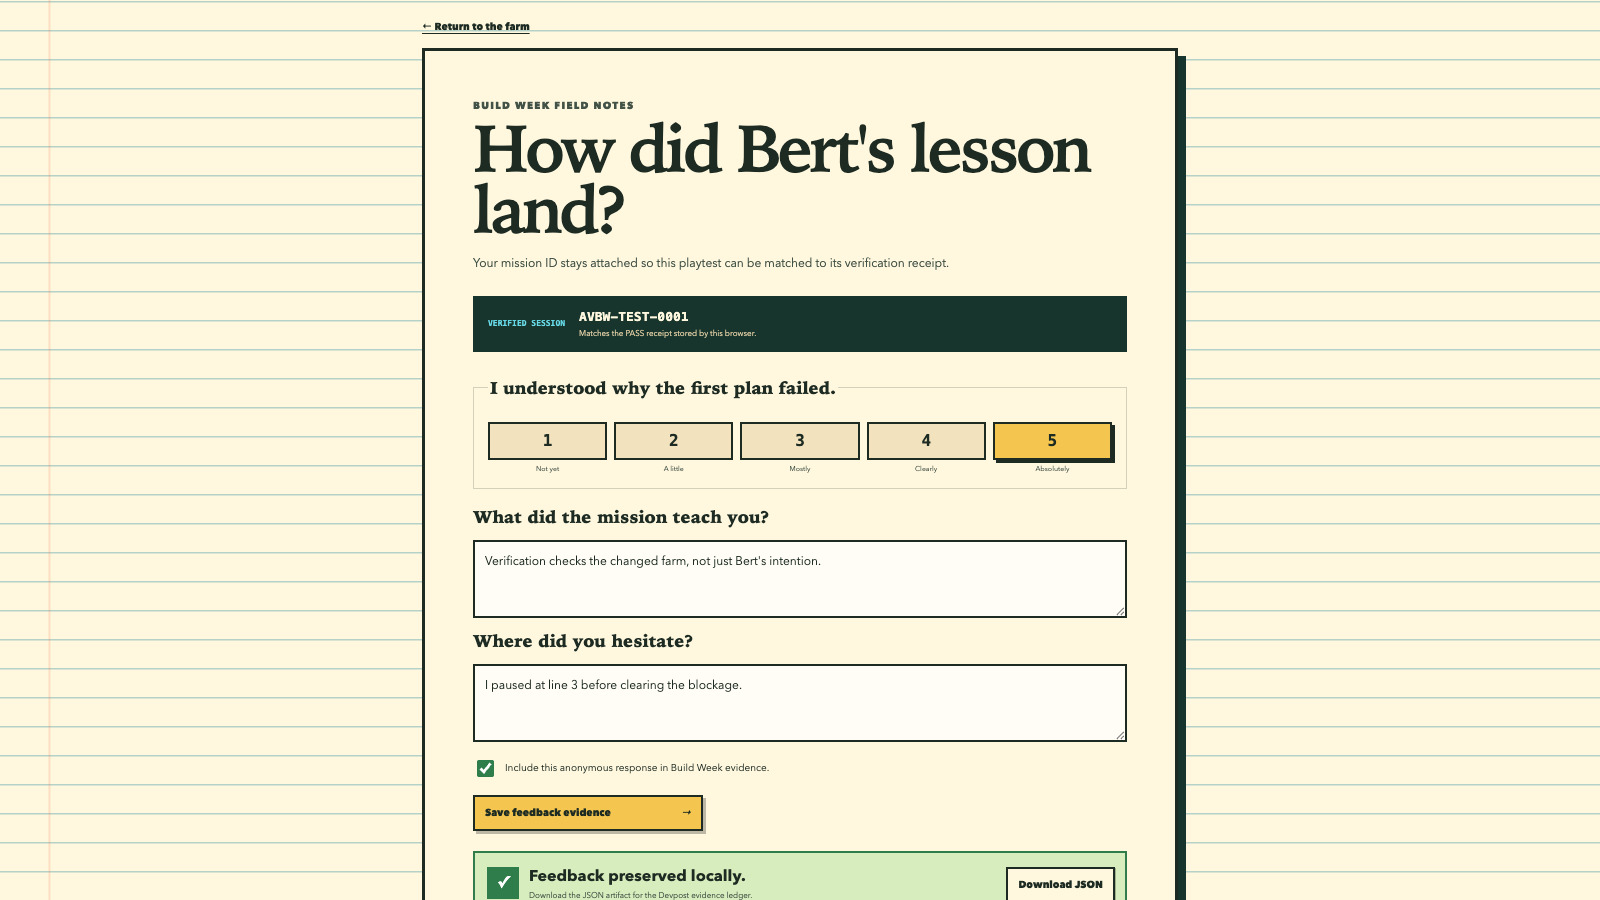
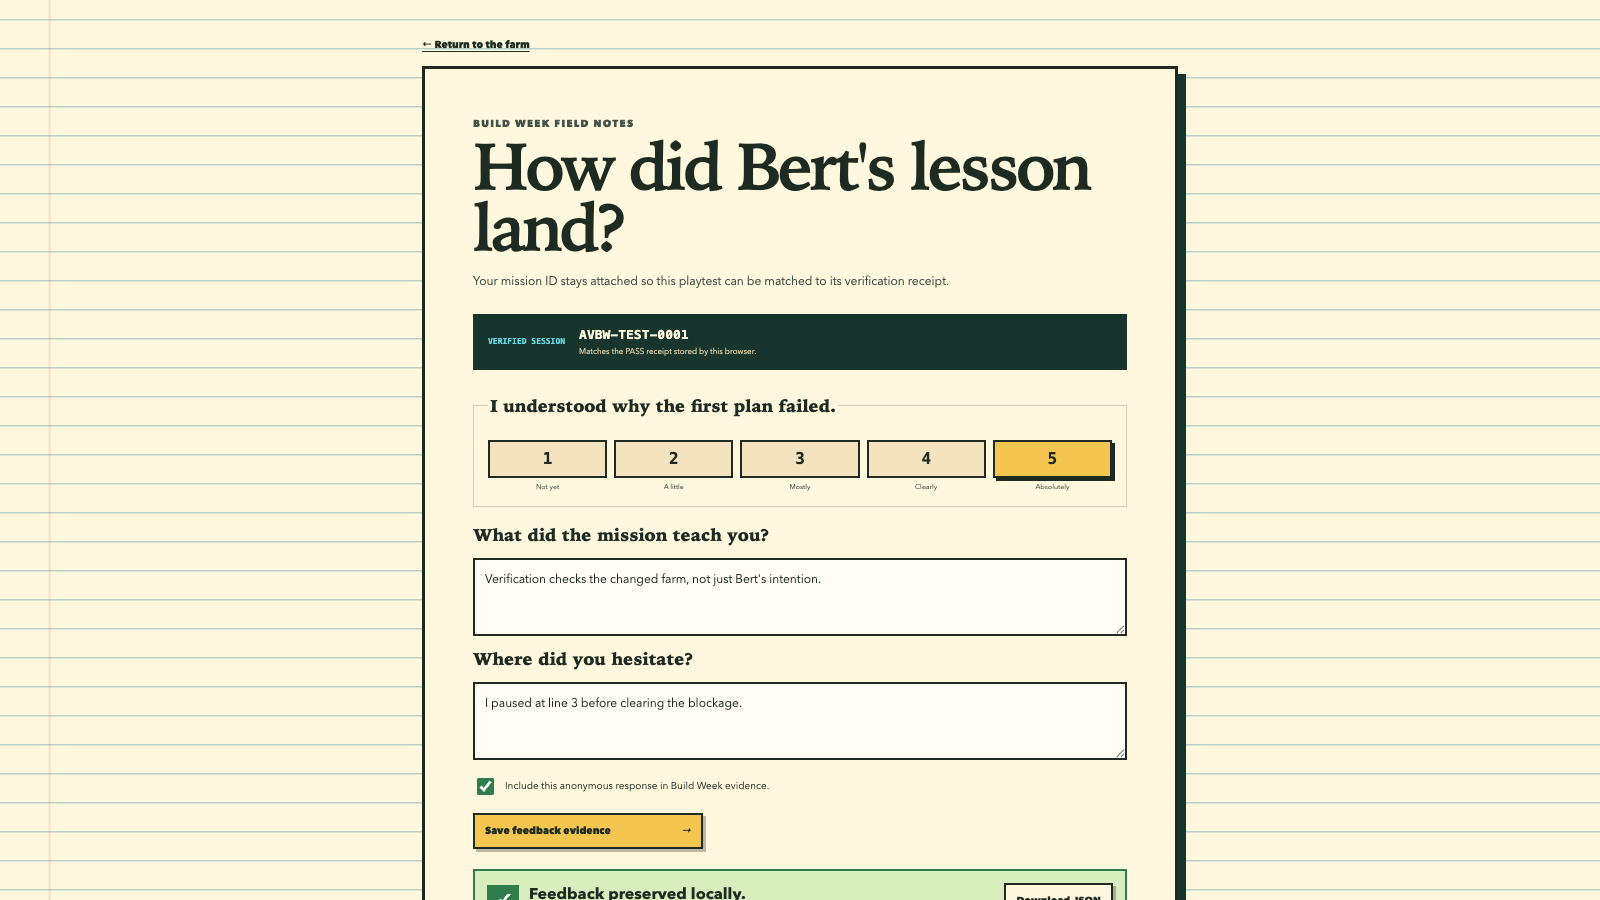
Record irrigation deployment proof

Changed region(s): [[0.0, 0.0, 1.0, 0.9956], [0.2812, 0.84, 0.7188, 1.0], [0.2812, 0.6844, 0.7188, 0.8089]]

diff --git a/docs/DEVPOST_EVIDENCE.md b/docs/DEVPOST_EVIDENCE.md
@@ -25,7 +25,7 @@
 
 | Criterion | Artifact or command | Status |
 | --- | --- | --- |
-| A1 | `npm run test:public` against [GitHub Pages](https://b33fydan.github.io/agentville-build-week/) | PASS — 117/117 public browser assertions |
+| A1 | `npm run test:public` against [GitHub Pages](https://b33fydan.github.io/agentville-build-week/) | PASS — 122/122 public browser assertions |
 | A2–A17 | `npm run smoke` | PASS — 26/26 Node tests + 122/122 local browser assertions |
 | Hero frame | `artifacts/screenshots/agentville-build-week-hero.png` | Captured and inspected |
 | Irrigation clue at judging viewport | `artifacts/screenshots/agentville-build-week-irrigation-cue-1280.png` | Captured and inspected at 1280×720; sign readable, canvas visible, no page overflow |
@@ -35,10 +35,10 @@
 | Debrief at judging viewport | `artifacts/screenshots/agentville-build-week-debrief-1280.png` | Captured and inspected at 1280×720; no clipping or scroll |
 | Feedback continuity | `artifacts/screenshots/agentville-build-week-feedback.png` | Captured and inspected |
 | Local machine evidence | `artifacts/evidence/latest-smoke.json` | PASS against `dist/`; diagnostics empty |
-| Public mission smoke | `artifacts/evidence/latest-public-smoke.json` via `npm run test:public` | PASS — 117/117; console, page, request, response, and dialog diagnostics empty |
+| Public mission smoke | `artifacts/evidence/latest-public-smoke.json` via `npm run test:public` | PASS — 122/122; console, page, request, response, and dialog diagnostics empty |
 | Human evidence | `artifacts/evidence/playtest-YYYY-MM-DD-<tester>.json` | Pending genuine sessions |
 | Source evidence | [github.com/b33fydan/agentville-build-week](https://github.com/b33fydan/agentville-build-week) | PUBLIC repository; first deployed commit `cb57621` |
-| Deployment evidence | [b33fydan.github.io/agentville-build-week](https://b33fydan.github.io/agentville-build-week/) | PASS — HTTP 200; debrief release [Actions run 29618190795](https://github.com/b33fydan/agentville-build-week/actions/runs/29618190795) succeeded on 2026-07-17 |
+| Deployment evidence | [b33fydan.github.io/agentville-build-week](https://b33fydan.github.io/agentville-build-week/) | PASS — HTTP 200; irrigation-clue release [Actions run 29621501693](https://github.com/b33fydan/agentville-build-week/actions/runs/29621501693) succeeded on 2026-07-17 |
 
 ## Deployment snapshot
 
@@ -47,7 +47,8 @@
 - **Playable build:** [https://b33fydan.github.io/agentville-build-week/](https://b33fydan.github.io/agentville-build-week/)
 - **First successful deployment:** Actions run `29554682024` at commit `cb57621`
 - **Learner-debrief deployment:** Actions run `29618190795` at commit `8d2f0b5`
-- **Public verification:** HTTP 200 plus `npm run test:public` with 117/117 browser assertions
+- **Irrigation-clue deployment:** Actions run `29621501693` at commit `8c01c21`
+- **Public verification:** HTTP 200 plus `npm run test:public` with 122/122 browser assertions
 - **Still pending:** three genuine playtests, demo video URL, and any separate Build Week `/feedback` ID
 
 ## `/feedback` continuity contract

diff --git a/docs/ACCEPTANCE.md b/docs/ACCEPTANCE.md
@@ -16,7 +16,7 @@ A first-time player can open the game in a desktop browser and complete one dete
 
 | ID | Pass condition | Evidence target |
 | --- | --- | --- |
-| A1 | The production build opens in Chromium with no install, account, or API key. | **PASS** — `npm run test:public`, 117/117 assertions at the live Pages URL |
+| A1 | The production build opens in Chromium with no install, account, or API key. | **PASS** — `npm run test:public`, 122/122 assertions at the live Pages URL |
 | A2 | **Start mission** loads the same compact farm and blocked East Channel on every reset. | Mission-state unit test + browser state hook |
 | A3 | The Workbench accepts a player-authored four-line program containing `observe`, `decide`, `act`, and `verify` in order. | Compiler tests + browser smoke |
 | A4 | Invalid syntax cannot mutate the farm and reports the offending line with a concrete repair suggestion. | Compiler sandbox tests + UI smoke |
@@ -39,10 +39,10 @@ A first-time player can open the game in a desktop browser and complete one dete
 | ID | Pass condition | Evidence target | Status |
 | --- | --- | --- | --- |
 | M1 | At least two of three first-time testers reach the receipt within five minutes without verbal coaching. | Dated playtest records in `artifacts/evidence/` | Pending genuine sessions |
-| M2 | The public deployment completes the same full mission in the declared judging browser. | [Live Pages URL](https://b33fydan.github.io/agentville-build-week/) + `npm run test:public` | **PASS** — 117/117 browser assertions on 2026-07-17 |
+| M2 | The public deployment completes the same full mission in the declared judging browser. | [Live Pages URL](https://b33fydan.github.io/agentville-build-week/) + `npm run test:public` | **PASS** — 122/122 browser assertions on 2026-07-17 |
 | M3 | The demo video shows the authored draft, failure, repair, world change, receipt, and feedback session continuity. | Timestamped Devpost evidence index | Pending video |
 
-All automated criteria pass locally: 26/26 Node tests and 122/122 production-browser assertions. The deployed baseline remains 117/117 until A17 is published and rehearsed. M2 and the A16 debrief are complete; M1 and M3 remain visibly incomplete until genuine human and video evidence exists.
+All automated criteria pass: 26/26 Node tests, 122/122 local production-browser assertions, and 122/122 public-browser assertions. M2, A16, and the A17 irrigation clue are complete; M1 and M3 remain visibly incomplete until genuine human and video evidence exists.
 
 ## Non-goals for this build
 

diff --git a/README.md b/README.md
@@ -129,7 +129,7 @@ The app also exposes two deterministic automation seams:
 
 The browser smoke rejects console/page errors, external requests, state/DOM disagreement, missing session continuity, and a false PASS. Machine-readable results are written to `artifacts/evidence/latest-smoke.json` for local production and `artifacts/evidence/latest-public-smoke.json` for the deployed build.
 
-Current validation passes 26/26 Node tests and 122/122 browser assertions against local production `dist/`. The most recent public proof remains 117/117 until the irrigation-clue release is deployed and rehearsed.
+Current validation passes 26/26 Node tests, 122/122 browser assertions against local production `dist/`, and 122/122 against the public Pages deployment.
 
 ## Production build and deployment
 
@@ -140,7 +140,7 @@ node scripts/serve.mjs --root=dist --port=4173
 
 `dist/` is a static site. The canonical deployment is [GitHub Pages](https://b33fydan.github.io/agentville-build-week/), published from `main` by `.github/workflows/pages.yml`. Each push installs Chromium, runs `npm run smoke`, uploads `dist/`, and deploys only after validation passes. The first successful deployment was [Actions run 29554682024](https://github.com/b33fydan/agentville-build-week/actions/runs/29554682024) at commit `cb57621` on 2026-07-17.
 
-The live root and `/feedback/` route return HTTP 200, and `npm run test:public` completes the deployed mission with 117/117 browser assertions. The learner-debrief release deployed successfully in [Actions run 29618190795](https://github.com/b33fydan/agentville-build-week/actions/runs/29618190795) at commit `8d2f0b5` on 2026-07-17. `vercel.json` and `netlify.toml` remain valid alternate-host declarations. No deployment path requires a server function or application secret.
+The live root and `/feedback/` route return HTTP 200, and `npm run test:public` completes the deployed mission with 122/122 browser assertions. The irrigation-clue release deployed successfully in [Actions run 29621501693](https://github.com/b33fydan/agentville-build-week/actions/runs/29621501693) at commit `8c01c21` on 2026-07-17. `vercel.json` and `netlify.toml` remain valid alternate-host declarations. No deployment path requires a server function or application secret.
 
 ## Submission evidence
 

diff --git a/docs/DEVPOST_SUBMISSION.md b/docs/DEVPOST_SUBMISSION.md
@@ -32,9 +32,9 @@ The game is a static HTML, CSS, and JavaScript application. Canvas 2D draws the 
 
 The Workbench language is an explicit allowlist, not arbitrary scripting. The compiler creates an immutable four-step plan. A pure deterministic simulator owns the blocked channel, released water, and three tomato-bed states. The visual timeline consumes that evidence but cannot decide the verdict.
 
-Node's built-in test runner covers the parser, sandbox rejections, state transitions, receipt, learning recap, reset, determinism, and public-smoke arguments. The current suite passes 26/26. A Playwright smoke types into the real editor and validates the complete production flow from the visible irrigation landmark through invalid syntax, failure, repair, debrief, receipt, feedback continuity, reset, responsive layout, and same-origin-only networking; the updated local production run passes 122/122 assertions. The latest deployed proof remains at 117/117 until this clue release is published.
+Node's built-in test runner covers the parser, sandbox rejections, state transitions, receipt, learning recap, reset, determinism, and public-smoke arguments. The current suite passes 26/26. A Playwright smoke types into the real editor and validates the complete production flow from the visible irrigation landmark through invalid syntax, failure, repair, debrief, receipt, feedback continuity, reset, responsive layout, and same-origin-only networking; both local production and public runs pass 122/122 assertions.
 
-GitHub Pages deploys the static `dist/` artifact only after that local production smoke passes. The first deployment succeeded in Actions run `29554682024` at commit `cb57621`; the learner-debrief release succeeded in Actions run `29618190795` at commit `8d2f0b5`, then passed the full 117/117 flow against the public URL.
+GitHub Pages deploys the static `dist/` artifact only after that local production smoke passes. The first deployment succeeded in Actions run `29554682024` at commit `cb57621`; the irrigation-clue release succeeded in Actions run `29621501693` at commit `8c01c21`, then passed the full 122/122 flow against the public URL.
 
 ## GPT-5.6 / Codex collaboration
 

diff --git a/progress.md b/progress.md
@@ -58,4 +58,5 @@ Original prompt: Build a clean-room hackathon project called AgentVille: Build W
 - Mirrored the visible landmark in the canvas accessibility description and `render_game_to_text()` so visual, assistive, and automated readings stay aligned.
 - Added five browser assertions for sign semantics, accessible copy, 1280×720 canvas visibility, and overflow; the full local production run passes 26/26 Node tests and 122/122 browser assertions.
 - Captured and visually inspected the clue at 1600×900 and 1280×720, plus a focused canvas frame through the reusable web-game client.
-- Next: deploy this release, rerun the 122-assertion flow publicly, and preserve the updated deployment proof.
+- Deployed commit `8c01c21` in GitHub Actions run `29621501693`; Pages reported the same SHA.
+- `npm run test:public` then passed 122/122 against the live URL with empty browser and network diagnostics, and the updated public evidence was preserved.

diff --git a/docs/COLLABORATION.md b/docs/COLLABORATION.md
@@ -39,7 +39,7 @@ This ID is preserved for Build Week `/feedback` and development-session traceabi
 
 **Human feedback:** The blank after `observe` should prompt a learner to inspect the farm and infer the target. A small map sign reading “irrigation” would supply the vocabulary without supplying the answer.
 
-**Codex / GPT-5.6 contribution:** Reworked the farm's obscured `EAST` marker into a readable upstream **IRRIGATION** sign that points into the channel but never names the blockage repair. Mirrored the visible landmark in the canvas description and `render_game_to_text()`, added semantic browser assertions, and preserved a dedicated 1280×720 evidence frame. The playtest protocol now measures whether a novice notices the sign and authors `observe irrigation` before opening the full draft hint.
+**Codex / GPT-5.6 contribution:** Reworked the farm's obscured `EAST` marker into a readable upstream **IRRIGATION** sign that points into the channel but never names the blockage repair. Mirrored the visible landmark in the canvas description and `render_game_to_text()`, added semantic browser assertions, and preserved a dedicated 1280×720 evidence frame. The playtest protocol now measures whether a novice notices the sign and authors `observe irrigation` before opening the full draft hint. Commit `8c01c21` deployed in [Actions run 29621501693](https://github.com/b33fydan/agentville-build-week/actions/runs/29621501693), and the live mission passed 122/122 browser assertions.
 
 ## Clean-room declaration
 